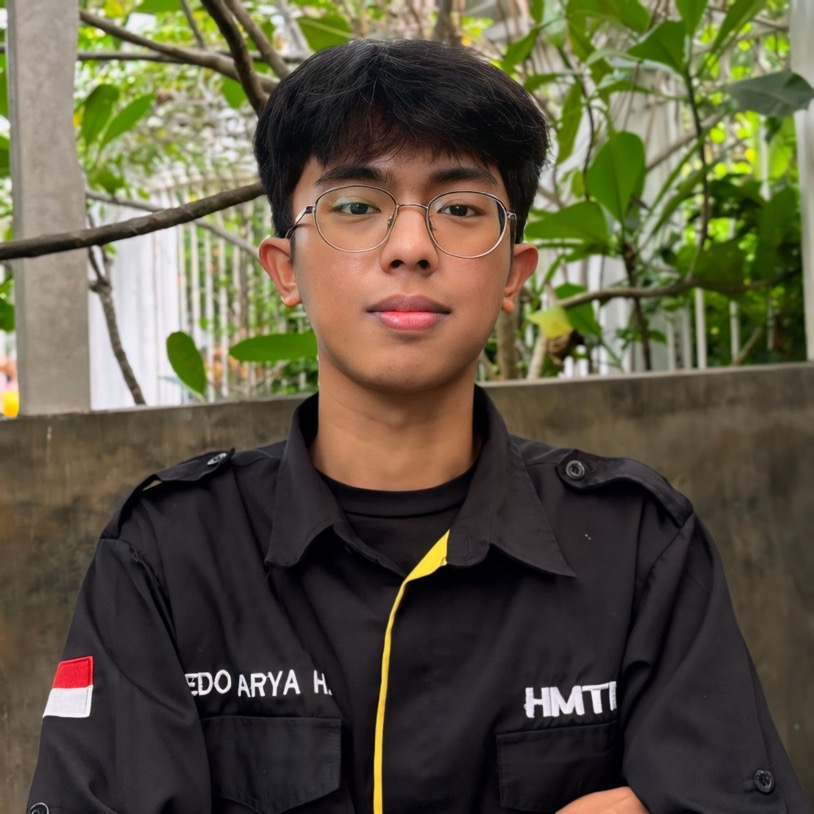
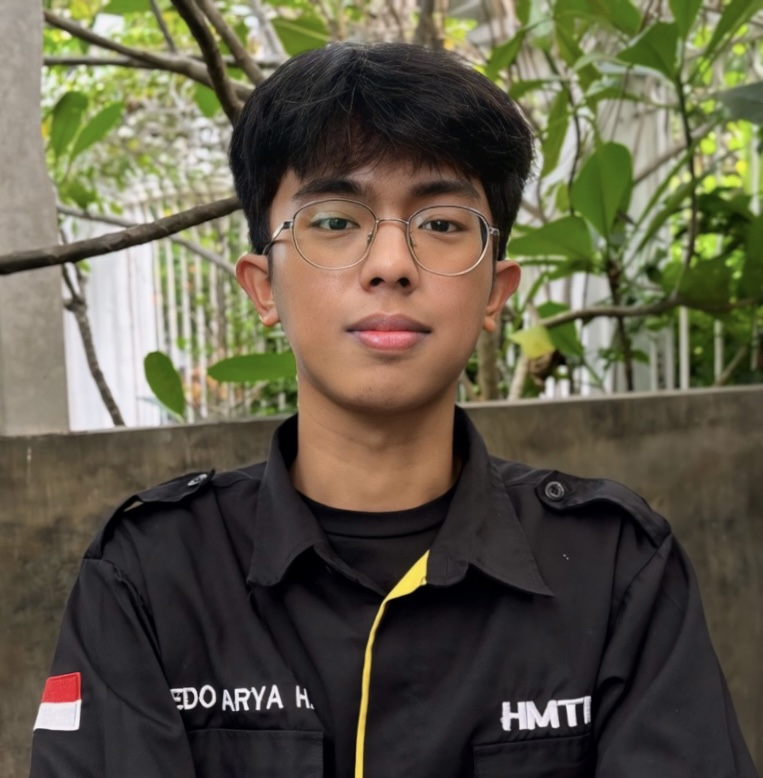
update navbar

diff --git a/src/data/resume.tsx b/src/data/resume.tsx
@@ -10,7 +10,7 @@ export const DATA = {
     "Currently exploring software engineering opportunities with a strong focus on backend development.",
   summary:
     "Information Systems student at the [State Polytechnic of Malang](https://www.polinema.ac.id/) with work experience in the field of software engineering and networking. Possesses hands-on experience as a backend and frontend engineer for websites and mobile applications. I have strong interpersonal skills, including excellent communication, effective teamwork, high initiative, and strong analytical abilities. I am seeking to further develop my expertise in software engineering.",
-  avatarUrl: "/profile2.JPG",
+  avatarUrl: "/profile.JPG",
   skills: [
     "API Integration",
     "RESTful API",
@@ -39,14 +39,6 @@ export const DATA = {
       LinkedIn: {
         url: "https://www.linkedin.com/in/edoarya/",
         icon: Icons.linkedin,
-      },
-      X: {
-        url: "https://x.com/dillionverma",
-        icon: Icons.x,
-      },
-      Youtube: {
-        url: "https://youtube.com/c/dillionverma",
-        icon: Icons.youtube,
       },
     },
   },

diff --git a/src/components/navbar.tsx b/src/components/navbar.tsx
@@ -35,24 +35,7 @@ export default function Navbar() {
             </TooltipContent>
           </Tooltip>
         </DockIcon>
-        <DockIcon>
-          <Tooltip>
-            <TooltipTrigger asChild>
-              <Link
-                href="/blog"
-                className={cn(
-                  buttonVariants({ variant: "ghost", size: "icon" }),
-                  "size-12"
-                )}
-              >
-                <NotebookIcon className="size-4" />
-              </Link>
-            </TooltipTrigger>
-            <TooltipContent>
-              <p>Blog</p>
-            </TooltipContent>
-          </Tooltip>
-        </DockIcon>
+        
         <Separator orientation="vertical" className="h-full" />
         {Object.entries(DATA.contact.social).map(([name, social]) => (
           <DockIcon key={name}>

diff --git a/src/app/page.tsx b/src/app/page.tsx
@@ -261,13 +261,7 @@ export default function Page() {
                 Let&apos;s Collaborate with Me
               </h2>
               <p className="mx-auto max-w-[600px] text-muted-foreground md:text-xl/relaxed lg:text-base/relaxed xl:text-xl/relaxed">
-                Want to chat? Just shoot me a dm{" "}
-                <Link
-                  href={DATA.contact.social.X.url}
-                  className="text-blue-500 hover:underline"
-                >
-                  with a direct question on twitter
-                </Link>{" "}
+                Want to chat? Just shoot me a dm with a direct question on twitter
                 and I&apos;ll respond whenever I can. I will ignore all
                 soliciting.
               </p>

diff --git a/src/components/icons.tsx b/src/components/icons.tsx
@@ -13,15 +13,6 @@ export const Icons = {
       />
     </svg>
   ),
-  x: (props: IconProps) => (
-    <svg viewBox="0 0 24 24" xmlns="http://www.w3.org/2000/svg" {...props}>
-      <title>X</title>
-      <path
-        fill="currentColor"
-        d="M18.901 1.153h3.68l-8.04 9.19L24 22.846h-7.406l-5.8-7.584-6.638 7.584H.474l8.6-9.83L0 1.154h7.594l5.243 6.932ZM17.61 20.644h2.039L6.486 3.24H4.298Z"
-      />
-    </svg>
-  ),
   youtube: (props: IconProps) => (
     <svg
       width="32px"
